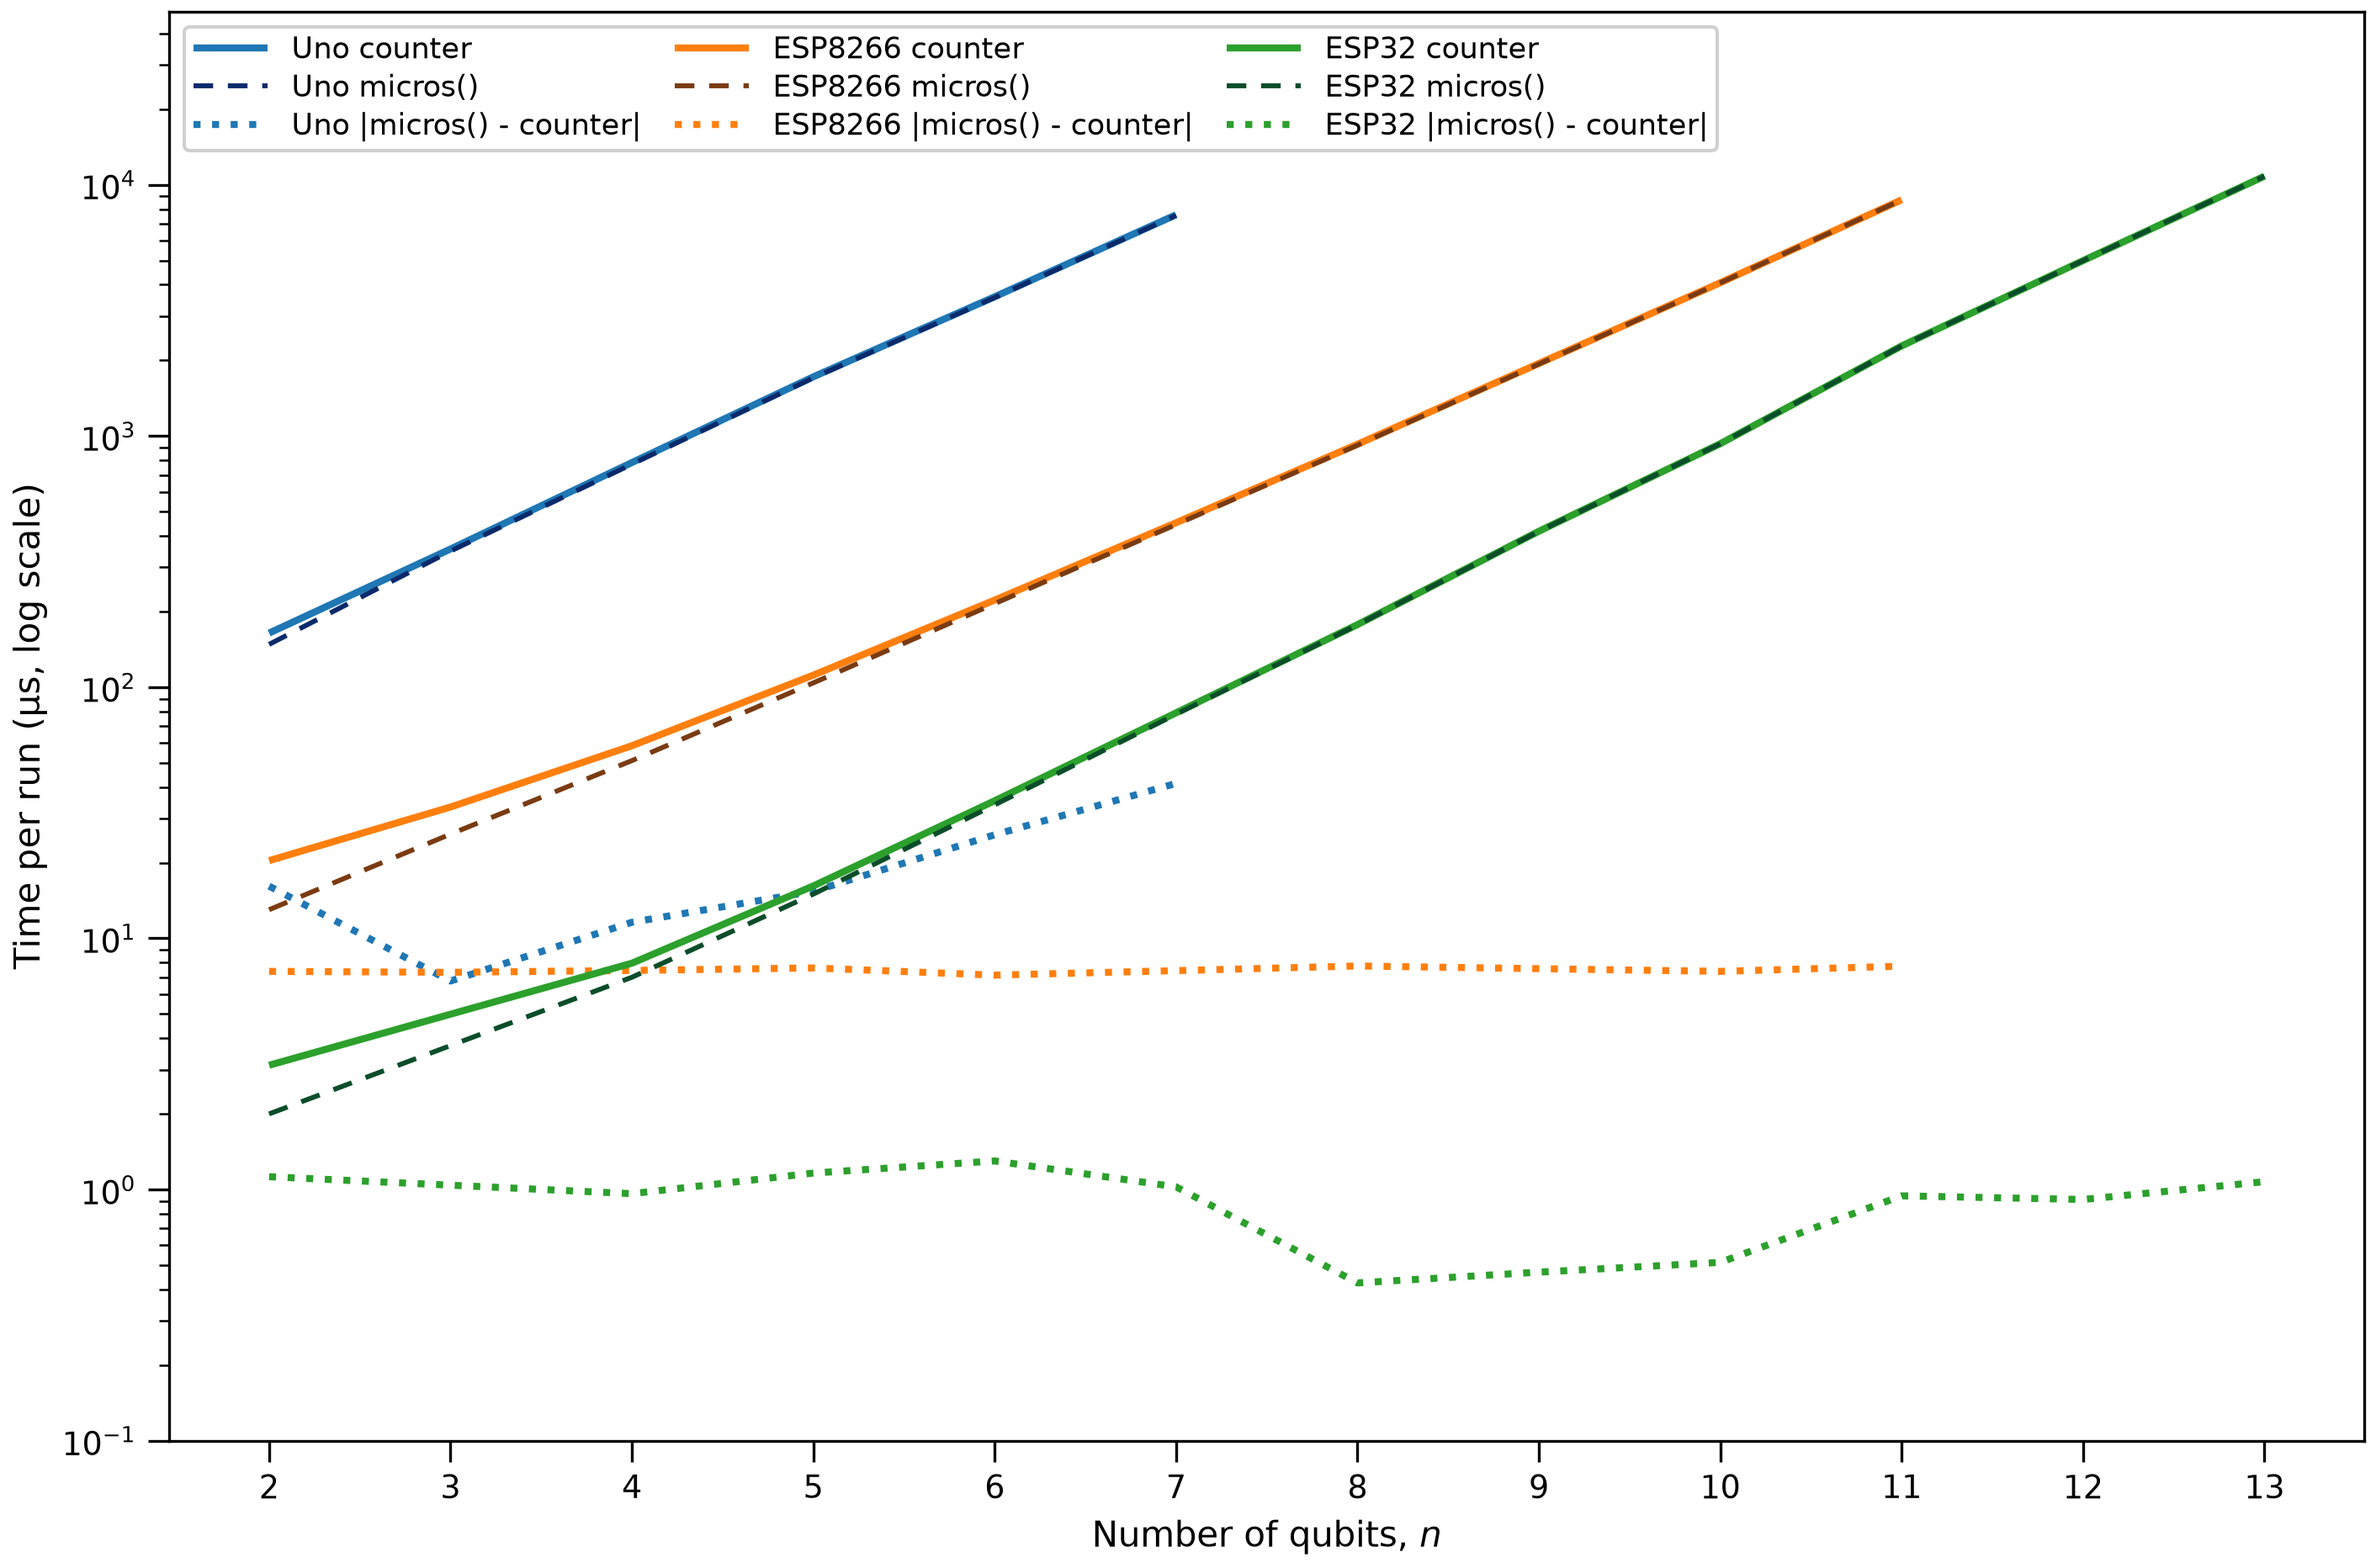
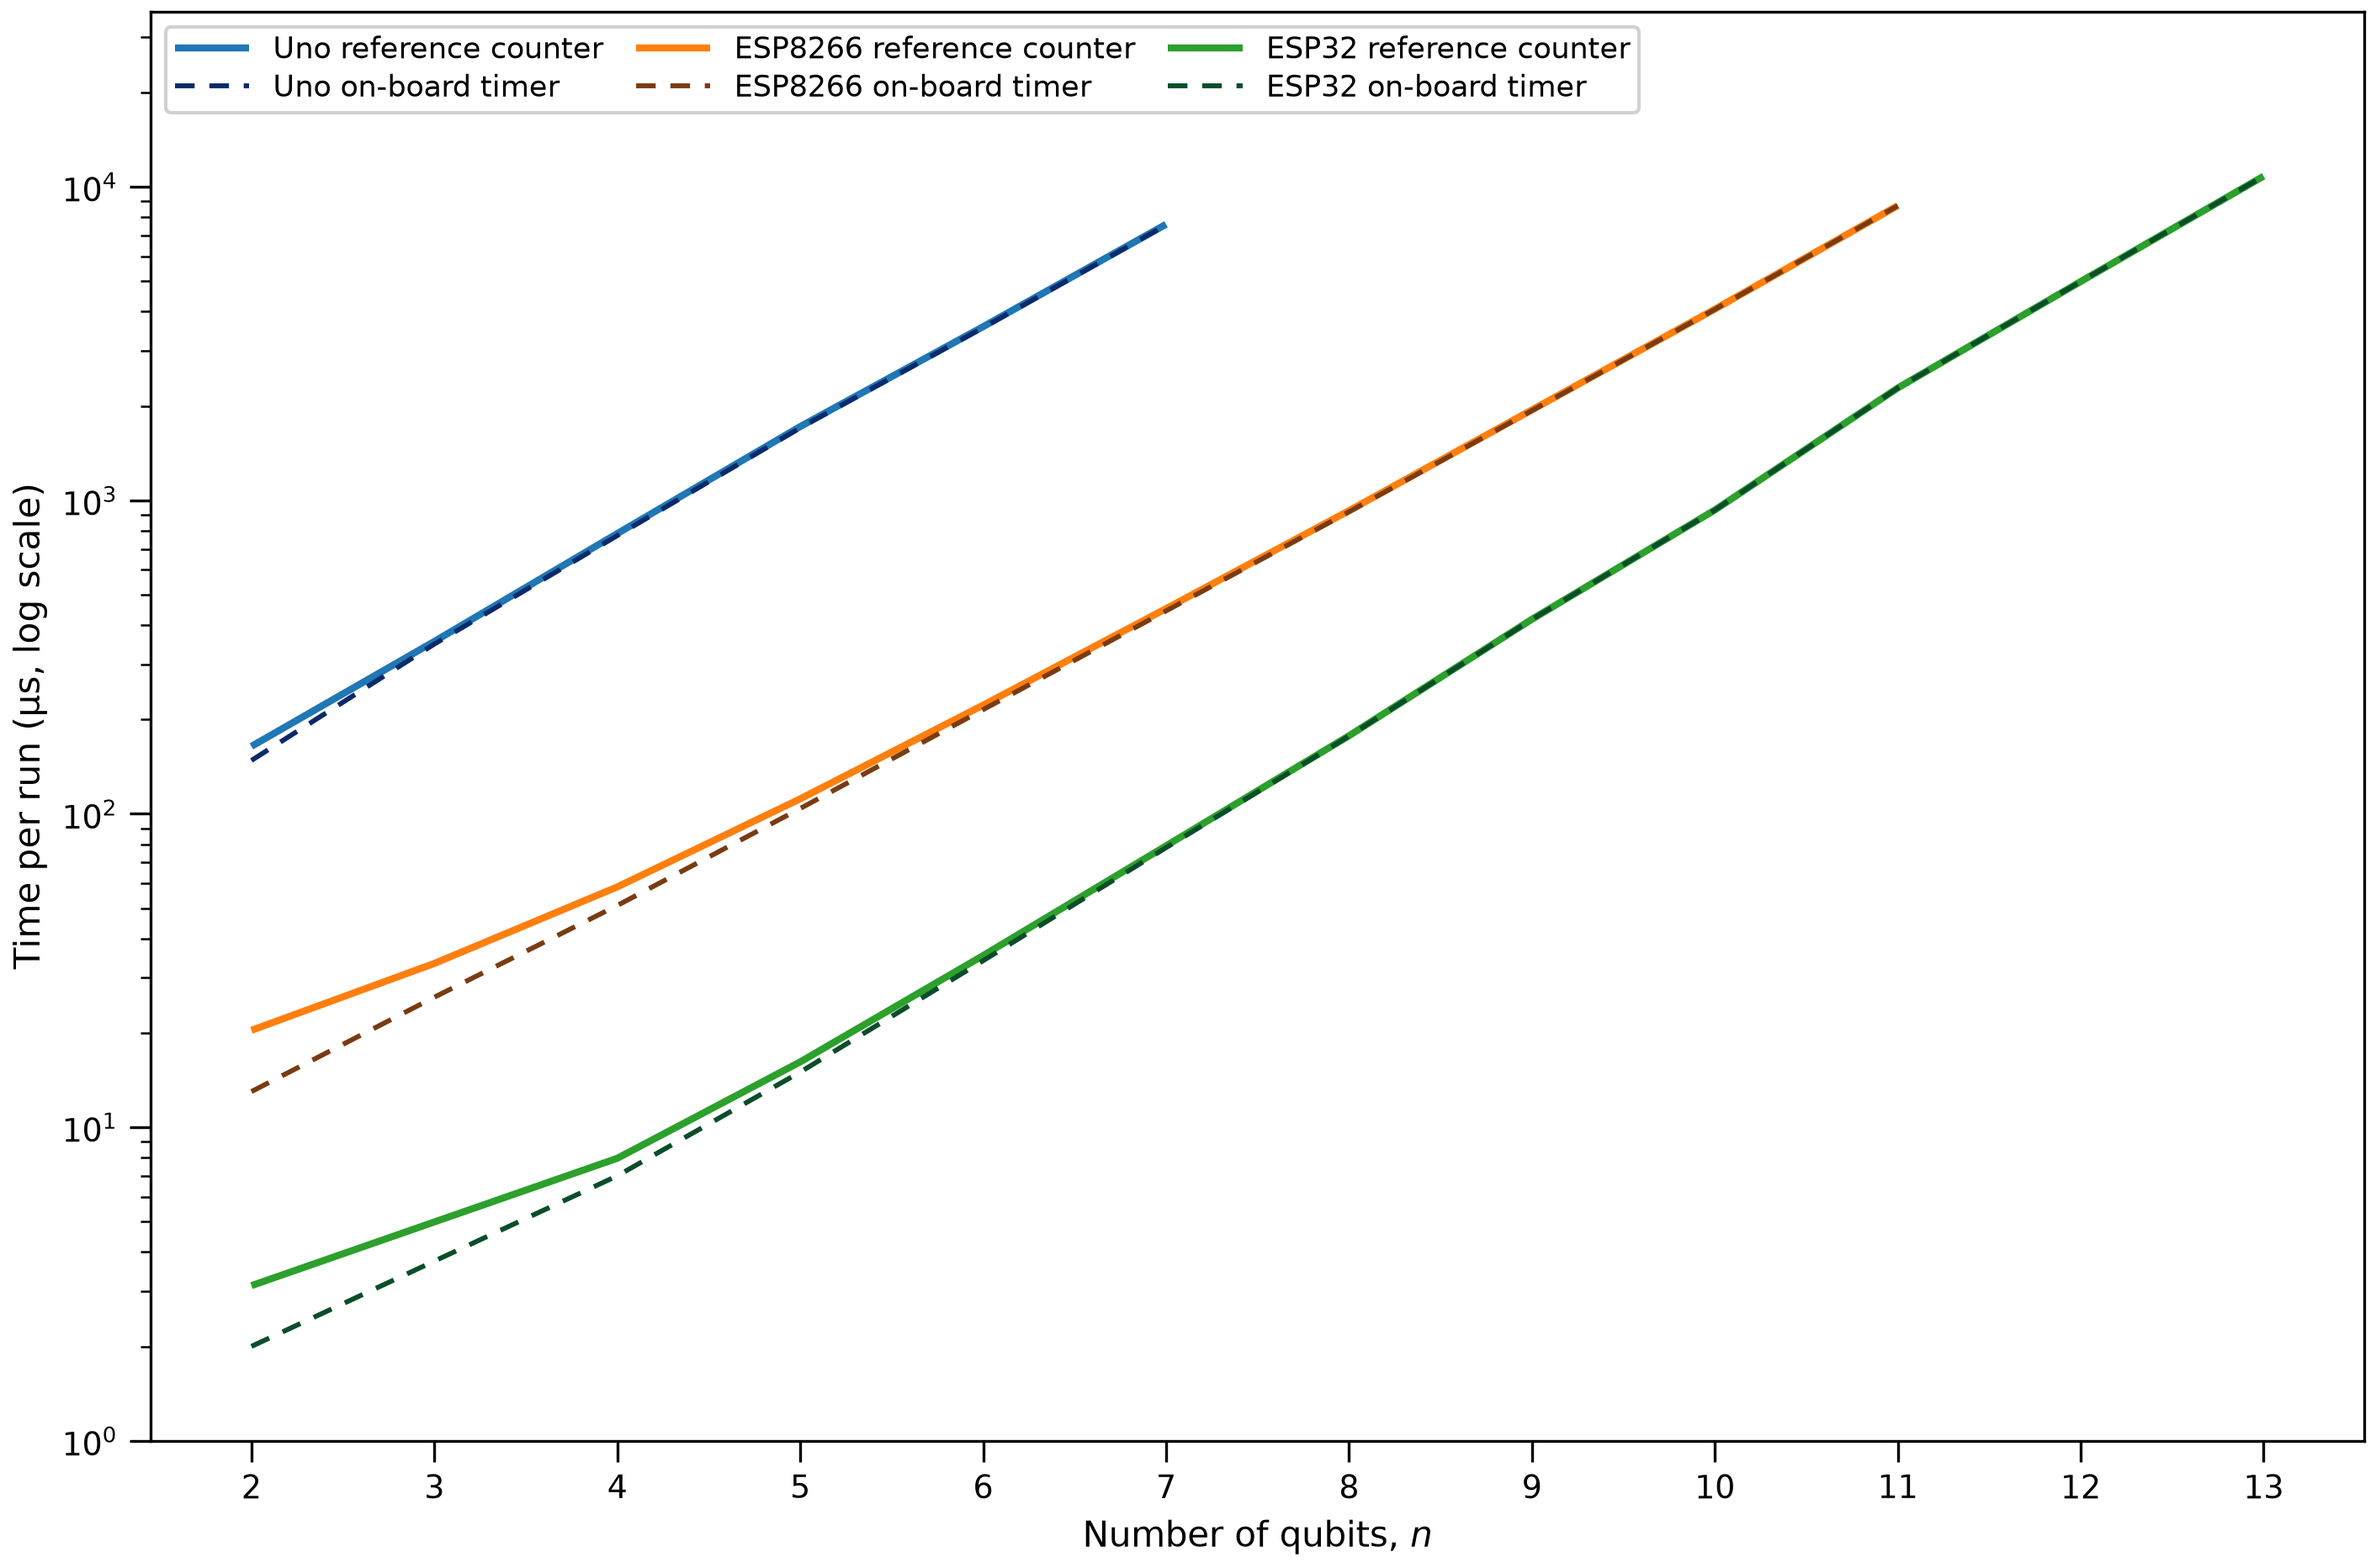
figures: timer_vs_counter charts without the difference line; series named reference counter and on-board timer
Claude-Session: https://claude.ai/code/session_01AE6WdfFceGc968bUQSKnsU

diff --git a/analysis/timer_vs_counter_house_plots.py b/analysis/timer_vs_counter_house_plots.py
@@ -1,7 +1,7 @@
 #!/usr/bin/env python3
 # timer_vs_counter_house_plots.py
-# Per board: counter time (solid), the board's micros() time (dashed) and |micros() - counter| (dotted), one colour per board (µs, log scale, point medians;
-# the sign of the difference is not shown) vs n, one chart per circuit with the three boards, in the house line-chart style of the graph-create skill
+# Per board: time per run from the external reference counter (solid) and from the board's own timer, micros() (dashed), one colour per board
+# (µs, log scale, point medians) vs n, one chart per circuit with the three boards, in the house line-chart style of the graph-create skill
 # (same layout as analysis/algorithm_house_plots.py: no title, legend = board names, linear y). Only points whose counter pair passed the validity rules
 # (usable) in the selected sessions are drawn (data/derived/counter_validity.csv, read-only); the line is drawn straight over unusable points.
 #   data/figures/phase2/timer_vs_counter/<circuit>.png   data/figures/phase3/timer_vs_counter/<circuit>.png
@@ -23,20 +23,18 @@ from plot_style import FAMILIES, plot_grouped_lines, save_figure  # noqa: E402
 
 cv = pd.read_csv(os.path.join(ROOT, "data", "derived", "counter_validity.csv"))
 cv = cv[cv.selected.astype(bool) & cv.usable.astype(bool) & (cv.counter_median_us > 0) & (cv.micros_median_us > 0)]
-cv = cv.assign(ratio=(cv.micros_median_us - cv.counter_median_us).abs())     # column name kept: it is the plotted value, in µs
-cv = cv[cv.ratio > 0]                                                        # a log axis cannot show an exact 0
 NAME = {"uno": "Uno", "esp8266": "ESP8266", "esp32": "ESP32"}
 for ph in (2, 3):
     for c in ("h_all", "bell_ghz", "qft", "grover"):
         g = cv[(cv.phase == ph) & (cv.circuit == c)]
-        SER = ["counter", "micros()", "|micros() - counter|"]
-        STYLE = {"counter": "-", "micros()": "--", "|micros() - counter|": ":"}
+        SER = ["reference counter", "on-board timer"]
+        STYLE = {"reference counter": "-", "on-board timer": "--"}
         rows = []
         for r in g.sort_values(["board", "n"]).itertuples():
-            for lab, v in zip(SER, (r.counter_median_us, r.micros_median_us, r.ratio)):
-                rows.append({"n": int(r.n), "ratio": float(v), "board": NAME[r.board], "series": lab})
+            for lab, v in zip(SER, (r.counter_median_us, r.micros_median_us)):
+                rows.append({"n": int(r.n), "time_us": float(v), "board": NAME[r.board], "series": lab})
         df = pd.DataFrame(rows)
-        fig, ax = plot_grouped_lines(df, "n", "ratio", "board", "series", title="", xlabel="Number of qubits, $n$",
+        fig, ax = plot_grouped_lines(df, "n", "time_us", "board", "series", title="", xlabel="Number of qubits, $n$",
                                      ylabel=r"Time per run (µs, log scale)",
                                      group_order=list(NAME.values()), series_order=SER)
         for ln in ax.lines:                                   # one colour per board; line style tells the clock
@@ -45,7 +43,7 @@ for ph in (2, 3):
                 if lab.startswith(bn + " "):
                     kind = lab[len(bn) + 1:]
                     ln.set_linestyle(STYLE[kind])
-                    if kind == "micros()":      # dark shade of the board's colour, thinner and on top, so it stays visible over the (almost equal) counter line
+                    if kind == "on-board timer":      # dark shade of the board's colour, thinner and on top, so it stays visible over the (almost equal) counter line
                         ln.set_color(FAMILIES[gi][3])
                         ln.set_linewidth(1.4)
                         ln.set_zorder(4)
@@ -53,7 +51,7 @@ for ph in (2, 3):
                     else:
                         ln.set_color(FAMILIES[gi][0])
         ax.legend(loc="upper left", ncol=3, fontsize=8.5, framealpha=0.9)
-        lo, hi = df.ratio.min(), df.ratio.max()
+        lo, hi = df.time_us.min(), df.time_us.max()
         lo_e = int(np.floor(np.log10(lo)))
         ax.set_ylim(10.0 ** lo_e, 10.0 ** (np.log10(hi) + 0.13 * (np.log10(hi) - lo_e)))   # whole decade below, headroom for the legend
         ax.yaxis.set_major_locator(mticker.LogLocator(base=10, numticks=30))
